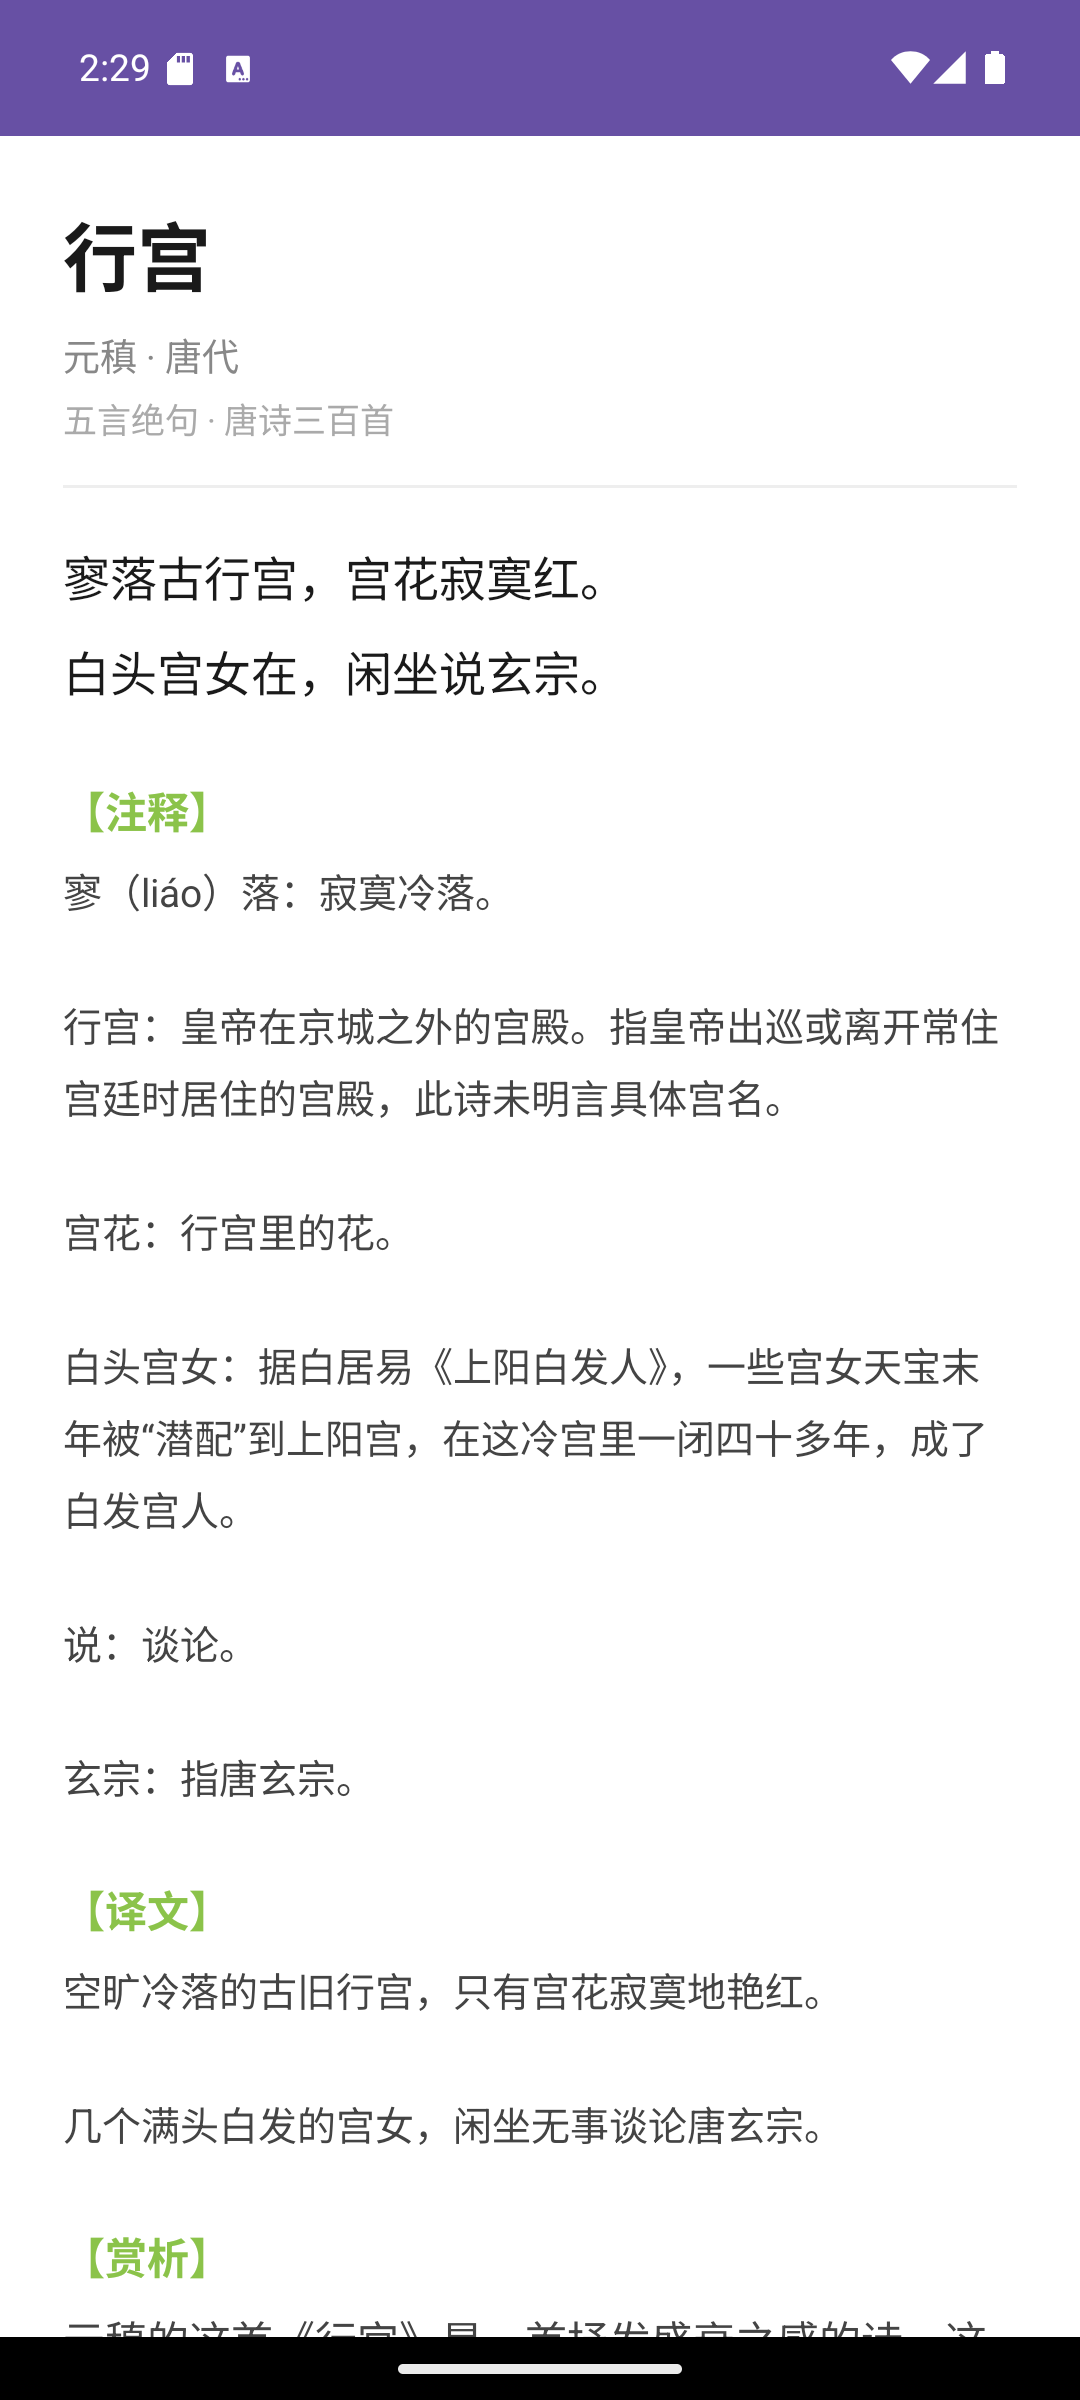
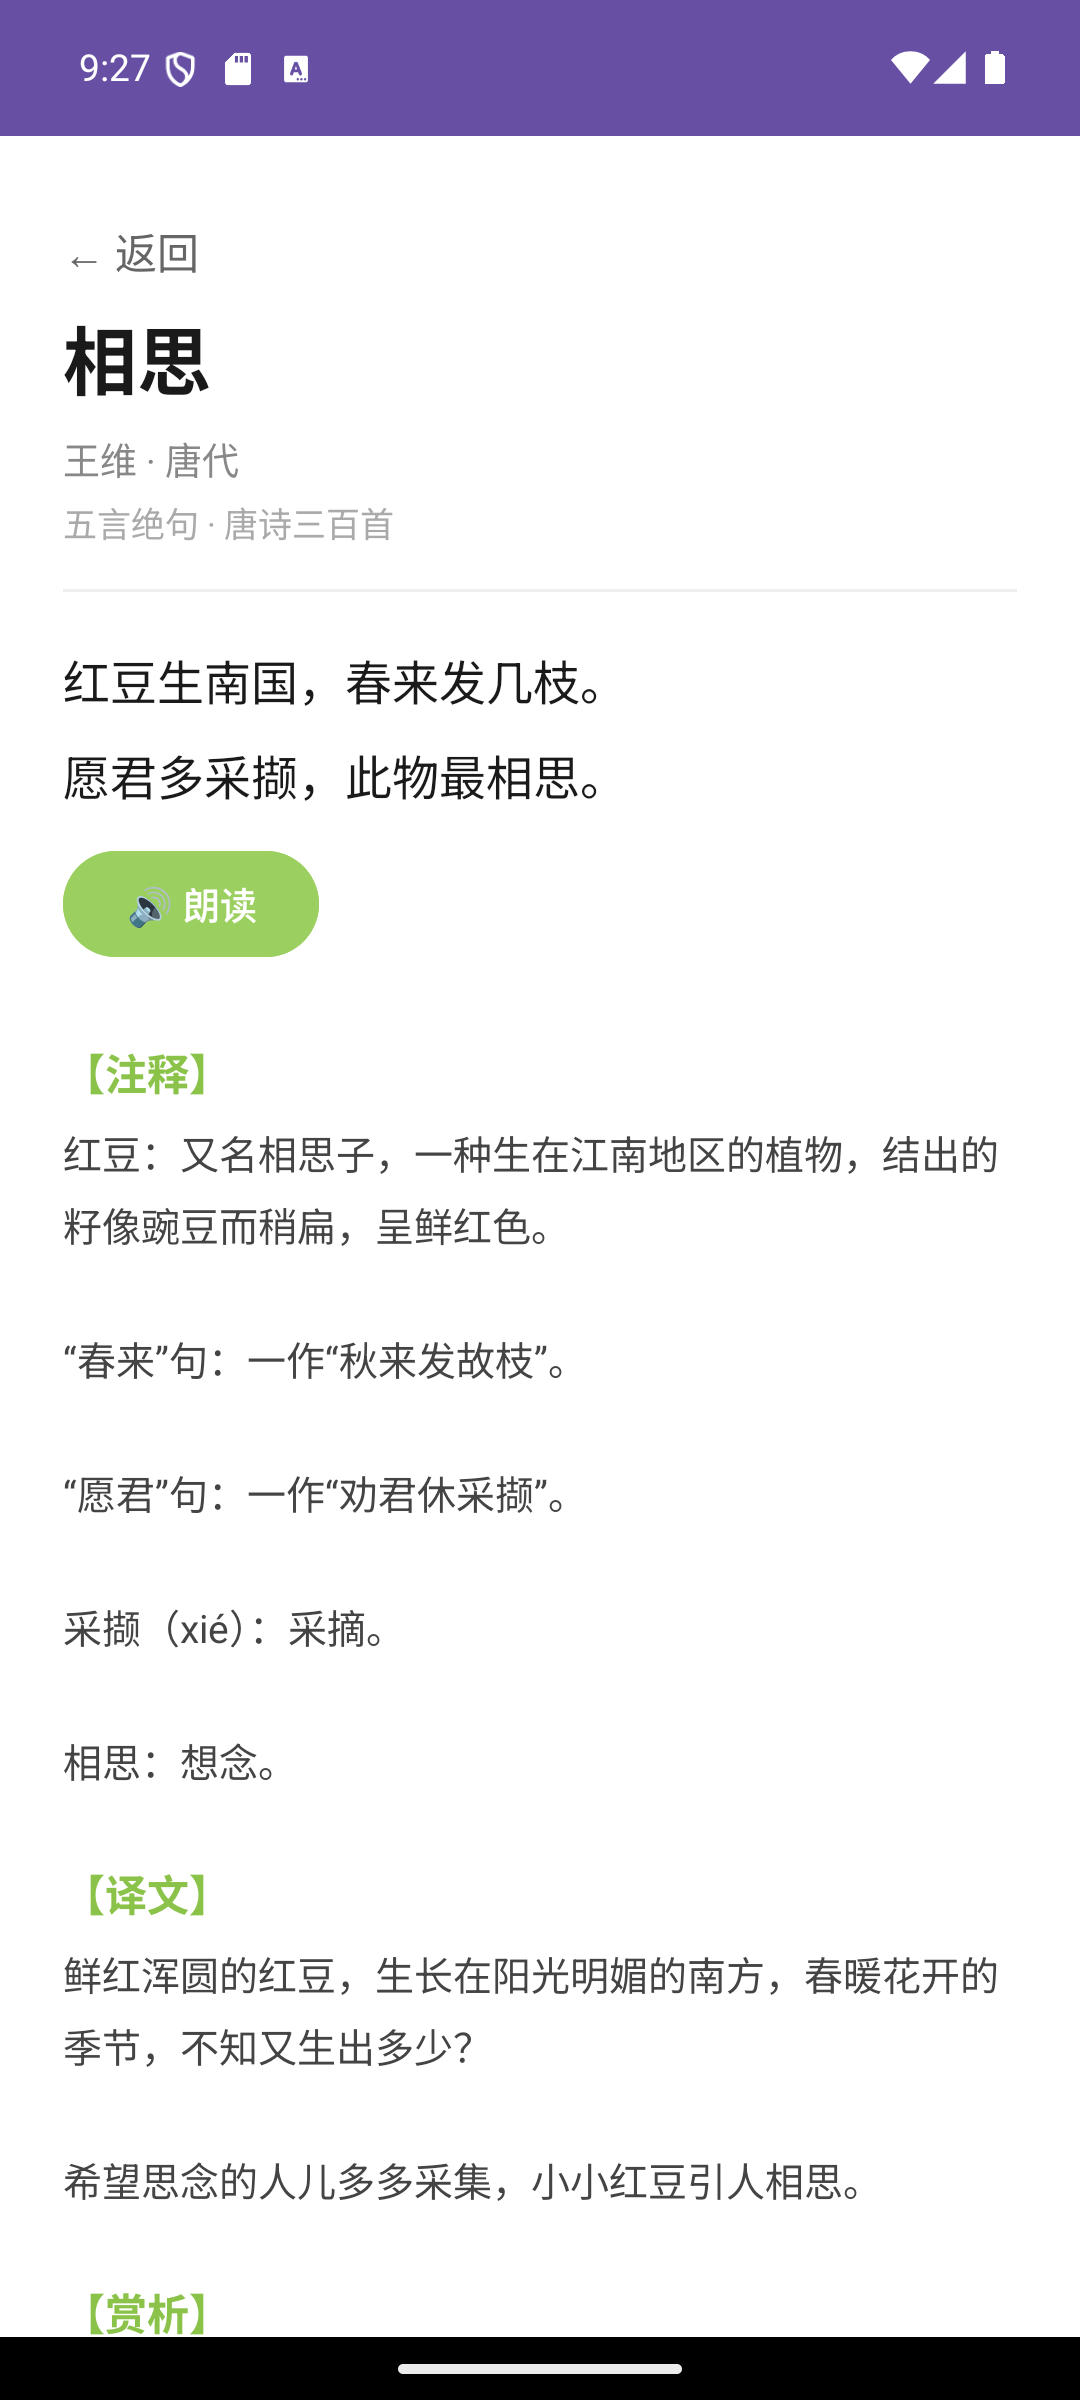
在上述基础上，额，加了滑动列表，详情页，个人主页，退出登录弹窗，登陆界面的界面截图证明我成功了！对！

diff --git a/app/src/main/java/com/example/poemapp/Ui/MainActivity.kt b/app/src/main/java/com/example/poemapp/Ui/MainActivity.kt
@@ -1,0 +1,51 @@
+package com.example.poemapp.Ui
+
+import android.os.Bundle
+import android.widget.Button
+import androidx.appcompat.app.AppCompatActivity
+import com.example.poemapp.R
+import com.example.poemapp.Data.DBHelper
+import com.google.android.material.bottomnavigation.BottomNavigationView
+
+
+class MainActivity : AppCompatActivity() {
+    override fun onCreate(savedInstanceState: Bundle?) {
+        super.onCreate(savedInstanceState)
+        setContentView(R.layout.main)
+
+        val dbHelper = DBHelper(this)
+        //诗词数目不为零就跳过导入诗词数据
+        if (dbHelper.poemCount() == 0) dbHelper.importPoems(this)
+
+        // 只在第一次创建时加载，避免旋转屏幕后重复添加
+        if (savedInstanceState == null) {
+            supportFragmentManager.beginTransaction()
+                .replace(R.id.fragmentContainer, HomeFragment())
+                .commit()
+        }
+
+        val navBar=findViewById<BottomNavigationView>(R.id.navBar)
+        //点击底部导航栏切换不同的fragment
+        navBar.setOnItemSelectedListener{item ->
+
+            when (item.itemId){
+                R.id.tabHome ->
+                    supportFragmentManager.beginTransaction().
+                    replace(R.id.fragmentContainer, HomeFragment()).
+                    commit()
+
+                R.id.tabFavorite ->
+                    supportFragmentManager.beginTransaction().
+                    replace(R.id.fragmentContainer, FavoriteFragment()).
+                    commit()
+
+                R.id.tabProfile ->
+                    supportFragmentManager.beginTransaction().
+                    replace(R.id.fragmentContainer, ProfileFragment()).
+                    commit()
+            }
+            true
+            //要记得返回true，不然点击tab会没有反应
+        }
+    }
+}

diff --git a/app/src/main/java/com/example/poemapp/Ui/ProfileFragment.kt b/app/src/main/java/com/example/poemapp/Ui/ProfileFragment.kt
@@ -1,0 +1,44 @@
+package com.example.poemapp.Ui
+
+import android.content.Context
+import android.content.Context.MODE_PRIVATE
+import android.content.Intent
+import android.os.Bundle
+import android.view.View
+import android.widget.Button
+import android.widget.TextView
+import androidx.appcompat.app.AlertDialog
+import androidx.fragment.app.Fragment
+import com.example.poemapp.R
+
+
+
+class ProfileFragment : Fragment(R.layout.fragment_profile){
+    override fun onViewCreated(view: View, savedInstanceState: Bundle?) {
+        super.onViewCreated(view, savedInstanceState)
+        //自动填入登录时的账号
+        val sp = requireContext().getSharedPreferences("login_prefs", Context.MODE_PRIVATE)
+        val tvUsername=view.findViewById<TextView>(R.id.tvUsername)
+        tvUsername.text=sp.getString("currentUser","")
+        val tvAccount=view.findViewById<TextView>(R.id.tvAccount)
+        tvAccount.text = "账号 · ${sp.getString("currentUser", "")}"
+         //退出登录键加弹窗防误触
+        val btnLogout=view.findViewById<Button>(R.id.btnLogOut)
+        btnLogout.setOnClickListener {
+            btnLogout.setOnClickListener {
+                AlertDialog.Builder(requireContext())
+                    .setTitle("退出登录")
+                    .setMessage("确定要退出当前账号吗？")
+                    .setPositiveButton("退出") {_,_  ->
+                        sp.edit().putBoolean("isLogin", false).apply()
+                        startActivity(Intent(requireContext(), Login::class.java))
+                        requireActivity().finish()
+                    }
+                    .setNegativeButton("取消", null)
+                    .show()
+            }
+        }
+
+
+    }
+}

diff --git a/app/src/main/java/com/example/poemapp/Ui/FavoriteFragment.kt b/app/src/main/java/com/example/poemapp/Ui/FavoriteFragment.kt
@@ -1,0 +1,8 @@
+package com.example.poemapp.Ui
+
+import androidx.fragment.app.Fragment
+import com.example.poemapp.R
+
+
+class FavoriteFragment : Fragment(R.layout.fragment_favorite){
+}

diff --git a/app/src/main/java/com/example/poemapp/Ui/PoemAdapter.kt b/app/src/main/java/com/example/poemapp/Ui/PoemAdapter.kt
@@ -1,4 +1,4 @@
-package com.example.poemapp.UI
+package com.example.poemapp.Ui
 
 import android.view.LayoutInflater
 import android.view.View

diff --git a/app/src/main/java/com/example/poemapp/Ui/DetailActivity.kt b/app/src/main/java/com/example/poemapp/Ui/DetailActivity.kt
@@ -1,4 +1,4 @@
-package com.example.poemapp.UI
+package com.example.poemapp.Ui
 
 import android.os.Bundle
 import android.widget.TextView

diff --git a/app/src/main/java/com/example/poemapp/Ui/HomeFragment.kt b/app/src/main/java/com/example/poemapp/Ui/HomeFragment.kt
@@ -1,4 +1,4 @@
-package com.example.poemapp.UI
+package com.example.poemapp.Ui
 
 import android.content.Intent
 import android.os.Bundle

diff --git a/app/src/main/java/com/example/poemapp/Ui/Login.kt b/app/src/main/java/com/example/poemapp/Ui/Login.kt
@@ -1,4 +1,4 @@
-package com.example.poemapp.UI
+package com.example.poemapp.Ui
 
 import android.content.Intent
 import android.os.Bundle

diff --git a/app/src/main/java/com/example/poemapp/Ui/Register.kt b/app/src/main/java/com/example/poemapp/Ui/Register.kt
@@ -1,4 +1,4 @@
-package com.example.poemapp.UI
+package com.example.poemapp.Ui
 
 import android.os.Bundle
 import android.widget.Button

diff --git a/README.md b/README.md
@@ -14,28 +14,38 @@
   - 多用户支持（SQLite `users` 表，可注册任意多个账号）
   - 记住密码（复选可选）
   - 已登录自动跳过登录页
-  - 退出登录
+  - 退出登录（二次确认弹窗）
+- **主界面**
+  - 底部导航栏（首页 / 收藏 / 我的）
+  - 今日推荐诗词卡片（按日期固定，每天一首）
+  - 诗词列表（611 首，RecyclerView 滚动复用）
+  - 诗词详情（原文、注释、译文、赏析、作者简介）
+  - 我的页面（用户名展示、退出登录）
 - **界面**
   - 约束布局（ConstraintLayout）
-  - 登录 / 注册页面完整实现
 
 ### 开发中
 
-- [ ] 底部导航栏（首页 / 收藏 / 我的）
-- [ ] 诗词列表与每日推荐
-- [ ] 诗词详情（原文、注释、译文、赏析、作者简介）
-- [ ] 原文朗读（系统 TTS）
-- [ ] 收藏与浏览历史
+- [ ] 收藏功能与浏览历史
+- [ ] 原文朗读（系统 TTS）接入
+- [ ] 按朝代 / 作者 / 文体筛选
+- [ ] 深色模式适配
 
 ---
 
 ## 截图
 
-| 登录页 | 注册页 | 诗词列表 | 详情页 |
-|---|---|---|---|
-| *待补* | *待补* | *待补* | *待补* |
+| 登录 | 诗词列表 |
+|---|---|
+| ![登录](screenshots/login.png) | ![诗词列表](screenshots/list.png) |
 
-> 截图存放于 `screenshots/` 目录，可自行替换上方单元格。
+| 诗词详情 | 我的 |
+|---|---|
+| ![详情](screenshots/detail.png) | ![我的](screenshots/profile.png) |
+
+| 退出登录（二次确认） |
+|---|
+| ![退出确认](screenshots/logout-dialog.png) |
 
 ---
 
@@ -102,7 +112,8 @@ app/src/main/
 | 2026-11-17 | `DBHelper` 实现 `users` 表、`register()`、`checkLogin()` |
 | 2026-11-18 | 完成记住密码、已登录跳过、退出登录逻辑 |
 | 2026-11-18 | 导入诗词数据集（611 首）至 `assets` |
-| 待续 | 底部导航栏与诗词模块 |
+| 2026-11-19 | 完成诗词列表页与详情页 |
+| 2026-11-21 | 完成底部导航栏、"我的"页面与退出二次确认 |
 
 ---
 
